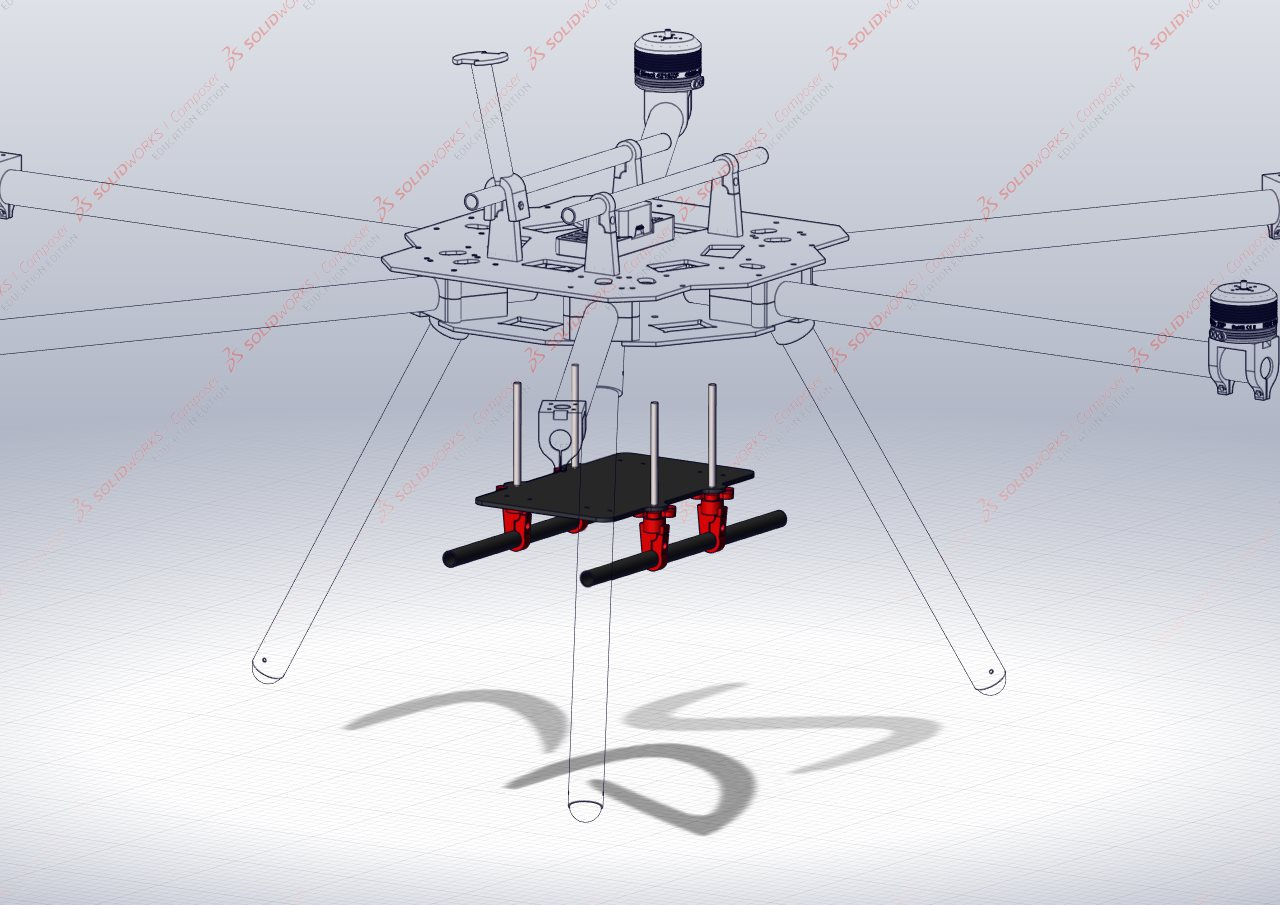
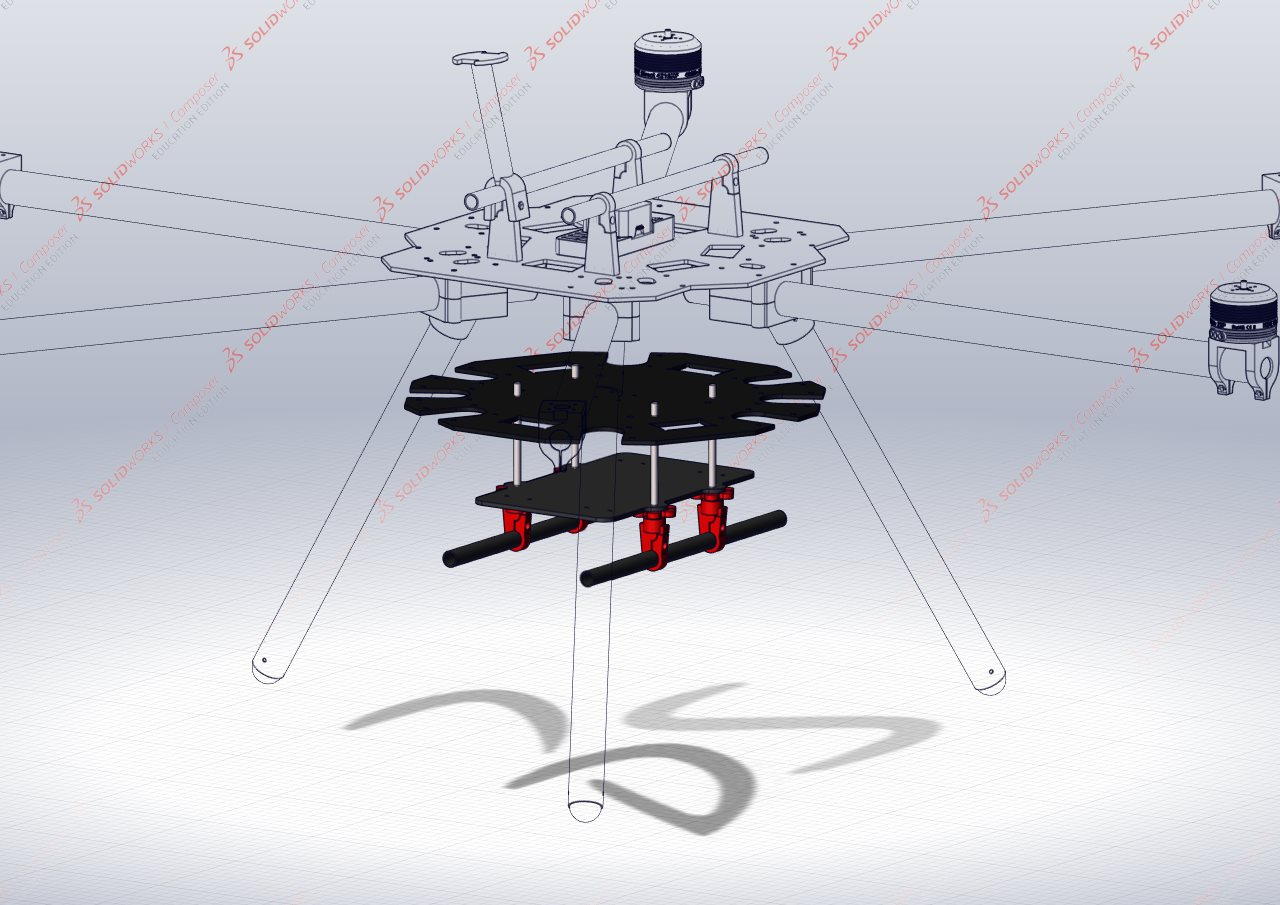
01/11 Bat plate docs

Changed region(s): [[0.3125, 0.3403, 0.6562, 0.495]]

diff --git a/docs/GettingStarted/BuildInstructions/BatPlate.md b/docs/GettingStarted/BuildInstructions/BatPlate.md
@@ -1,0 +1,84 @@
+---
+layout: default
+title: "4. Bottom and Battery Plates"
+parent: Build Instructions
+nav_order: 5
+---
+
+# Bottom Plates of the Central Hub
+{: .no_toc }
+This section focuses on assembling the bottom plates of the central hub, including the battery plate and its associated rail mounts as well as how they are secured to the bottom dodecagon plate.
+
+## Table of Content:
+{: .no_toc .text-delta }
+
+1. TOC
+{:toc}
+
+## Requirements: 
+
+### Parts:
+
+| Component              | Quantity | Description                          |
+|:------------------------|:--------------|:-------------------------|
+| [Battery Plate](https://github.com/landrs-toolkit/LANDRs-Science-Drone/tree/main/Design/MechanicalDesign/BatteryPlate) | 1 | CNC'd carbon fiber plate |
+| [Dodecagon Bottom Plate](https://github.com/landrs-toolkit/LANDRs-Science-Drone/tree/main/Design/MechanicalDesign/CenterHubs/BottomPlate) | 1 | CNC'd carbon fiber plate |
+| [Wing Nut Extender](https://github.com/landrs-toolkit/LANDRs-Science-Drone/tree/main/Design/MechanicalDesign/BatteryPlate) | 4| 3D Printed wing nut extender   |
+| [Bottom Rail Mount](https://github.com/landrs-toolkit/LANDRs-Science-Drone/tree/main/Design/MechanicalDesign/RailMounting) | 4 | 3D Printed bottom rail mount |
+| Gimbal Rails | 2 | 12x10x250mm carbon fiber tube|
+| M5 x 100mm Threaded Rod | 4| M5 threaded rod to secure battery plate|
+| M5 Standard Nut | 12| M5 standard nut to secure threaded rods to bottom plate|
+| M5 Standard Washer | 12| M5 washer to prevent damage to carbon fiber plates|
+| M3 x 8mm bolt | 4 | M3 hex socket bolts for gimbal mounts|
+
+## Assembling the Bottom part of the Central Hub:
+The following illustrations will assist with assembling the components associated with the bottom plates of the central hub. 
+
+<img alt="CFTube" src="../../Images/BuildInstructions/BatPlate/OverviewPlate.jpg" width=700>
+
+### Step 1: *Bottom gimbal rail mounts*
+The battery plate and bot gimbal rails are secured to the dodecagon bottom plate with **M5 Threaded Rod**. This step must be repeated 4 times.
+
+<img alt="CFTube" src="../../Images/BuildInstructions/BatPlate/RailAssem.jpg" width=700>
+
+On the bottom end of a **M5 x 100mm** threaded rod, thread on a Wing Nut Extender. Slide on a **Standard M5 Washer** on the top side of the Wing Nut.
+Ensure theres enough room below the Wing Nut to secure the Rail Mount.
+
+When threading on the Bottom Rail Mount, thread the rod in just enough to see it pass the top hole on the side of the printed mount. The thread should pass the point of the arrow below.
+
+<img alt="CFTube" src="../../Images/BuildInstructions/BatPlate/H2Thread.jpg" width=400>
+
+*Note: You may thread the threaded rod as far as it will go however it will leave less thread to work with when securing the rods to the bottom plate of the central hub.*
+
+### Step 2: *Securing the gimbal rails and battery plate*
+With the 4 assembled bottom gimbal rail mounts, slide on the Battery Plate as illustrated.
+
+<img alt="CFTube" src="../../Images/BuildInstructions/BatPlate/Ai1Assem.jpg" width=700>
+
+The carbon fiber rails can then be secured in the rail mounts, the end of the rail should be **84mm** from the rail mount. Use **M3 x 8mm** hex socket bolts to secure the rails in place.
+
+### Step 3: *Locking nuts to secure the battery plate to the dodecagon plate*
+The Battery Mounting Plate and Rails are secured to the Bottom Dodecagon plate by means of "locked" nuts.
+
+On each of the threaded rods, thread 2 **M5** standard nuts approximately 15mm down the rod. Then place a **M5** standard wash on top of the nuts.
+
+<img alt="CFTube" src="../../Images/BuildInstructions/BatPlate/DoubleNut.jpg" width=400>
+
+The nuts are "locked" by threading them towards each other until they are tight, this is easier to do with spanners.
+
+### Step 4: *Securing the battery plate to the dodecagon plate*
+There are two sets of possible mount holes on the bottom dodecagon plate. The following illustration assists with choosing the correct holes depending on the configuration you are assembling.
+
+*Suggestion: use markers or a pencil to mark which holes for the respective configurations*
+
+<img alt="CFTube" src="../../Images/BuildInstructions/BatPlate/HoleID.jpg" width=700>
+
+Satisfied the correct holes have been chosen, the bottom plate mount holes can be aligned with the threaded rods and pushed through. The Bottom Plate should rest on the locked nuts from the previous step.
+
+<img alt="CFTube" src="../../Images/BuildInstructions/BatPlate/BotPlate.jpg" width=700>
+
+Then add a standard **M5** washer and nut to the top of each threaded rod. Tighten the nut to secure the Bottom Dodecagon Plate to the Battery Plate assembly.
+
+*Note: You may need to slightly adjust nut heights on each threaded rod to ensure the battery plate is as close to level as possible.*
+
+[Previous Section](../../GettingStarted/BuildInstructions/TopPlate.md){: .btn} [Next Section](../../GettingStarted/BuildInstructions/BatPlate.md){: .btn .float-right}

diff --git a/docs/GettingStarted/BuildInstructions/TopPlate.md b/docs/GettingStarted/BuildInstructions/TopPlate.md
@@ -23,7 +23,7 @@ The central hub is made up of three different plates each housing different elec
 |:------------------------|:--------------|:-------------------------|
 | [Oblong Top Plate](https://github.com/landrs-toolkit/LANDRs-Science-Drone/tree/main/Design/MechanicalDesign/CenterHubs/TopPlate) | 1 | CNC'd carbon fiber plate |
 | Cube Orange | 1| CubePilot flight controller and standard board    |
-| [Top Rail Mount](https://github.com/landrs-toolkit/LANDRs-Science-Drone/tree/main/Design/MechanicalDesign/RailMounting) | 4 | 6S 340KV electric motor |
+| [Top Rail Mount](https://github.com/landrs-toolkit/LANDRs-Science-Drone/tree/main/Design/MechanicalDesign/RailMounting) | 4 | 3D Printed top rail mount |
 | Gimbal Rails | 2 | 12x10x250mm carbon fiber tube|
 | M2.5 x 8mm screw | 4| M2.5 screw to secure the flight controller|
 | M3 x 8mm bolt | 12 | M3 hex socket bolts for gimbal mounts|
@@ -66,5 +66,5 @@ The GPS mount was designed to snap fit onto one of the rail mounts. Thus, it doe
 
 The GPS should be mounted at the front of the HexaQuad as illustrated below. It is mounted at the front to isolate it from the power systems interference which is located at the back of the HexaQuad.
 
-[Previous Section](../../GettingStarted/BuildInstructions/Rotorbooms.md){: .btn} [Next Section](../../GettingStarted/BuildInstructions/TopPlate.md){: .btn .float-right}
+[Previous Section](../../GettingStarted/BuildInstructions/Rotorbooms.md){: .btn} [Next Section](../../GettingStarted/BuildInstructions/BatPlate.md){: .btn .float-right}
 
